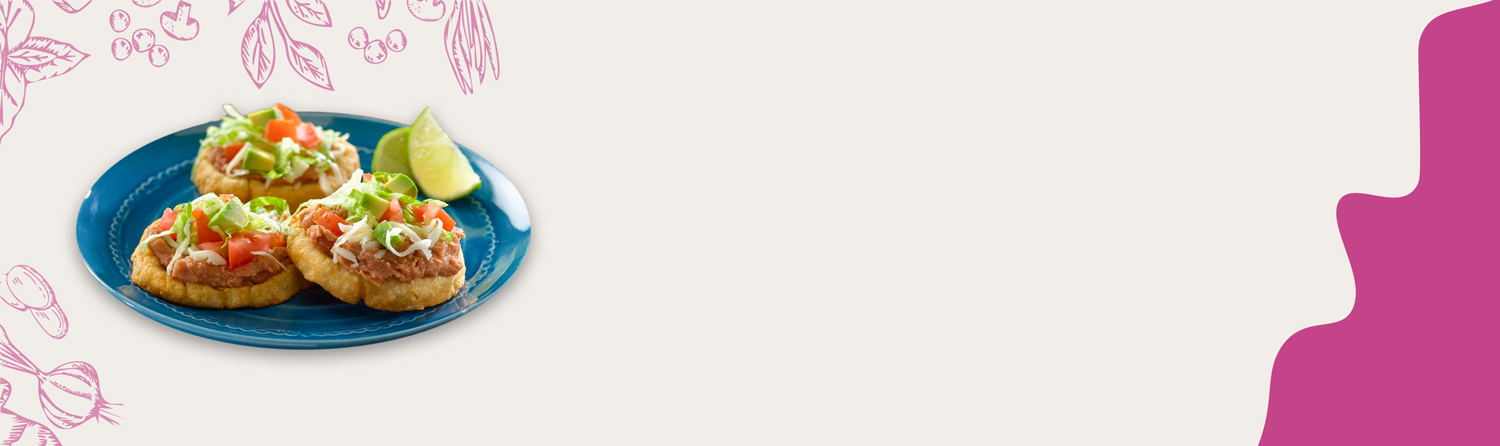
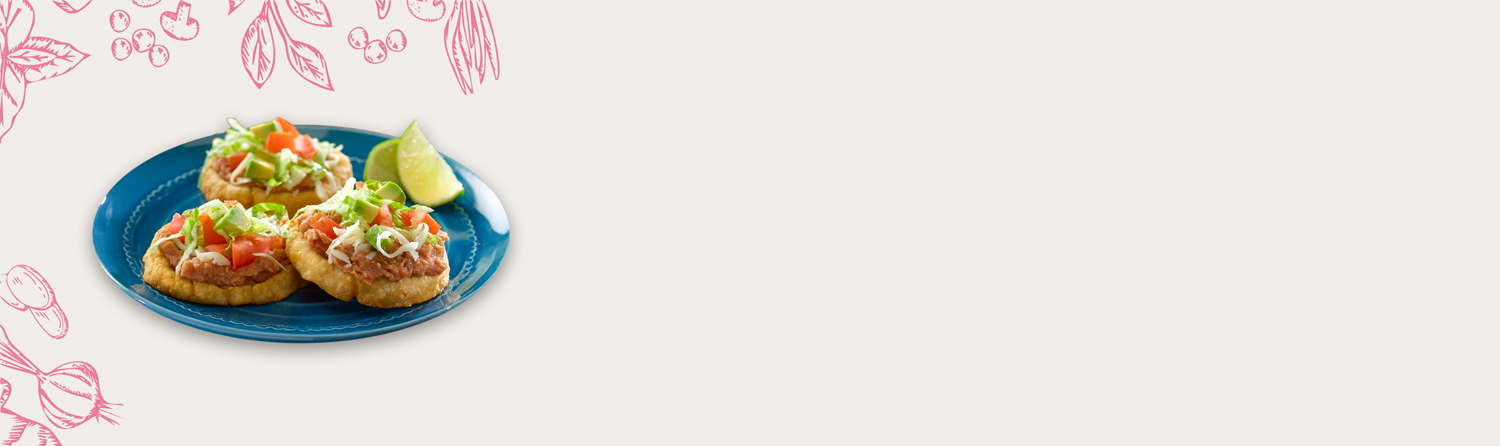
Final fixes in home page

Changed region(s): [[0.0307, 0.2332, 0.368, 0.8161], [0.828, 0.0, 1.0, 1.0]]

diff --git a/client/src/pages/Home/index.js b/client/src/pages/Home/index.js
@@ -18,17 +18,18 @@ function Home(props) {
   <div className="mainHomeContainer">
       <NavBar/>
         <Carousel autoplay>
-            <div>
+            <div className="slideContainer">
             <img src={slide1}/>
+            <h1 className="textCentered" style={{top:'33%',left:'60%',color: 'black', fontSize:'4vw'}}>{"¡Hola!"}</h1>
+            <h3 className="textCentered" style={{top:'60%',left:'70%',color: 'black', fontSize:'3vw'}}>{"Bienvenido a tu fondita"}</h3>
             </div>
-            <div>
+            <div className="slideContainer">
             <img src={slide2}/>
+            <h2 className="textCentered" style={{left:'45%'}}>Recibe tu comida en recipientes biodegradables</h2>
             </div>
-            <div>
-            <img src={slide3}/>
-            </div>
-            <div>
+            <div className="slideContainer">
             <img src={slide4}/>
+            <h1 className="textCentered" style={{left:'60%'}}>Comida que te consiente</h1>
             </div>
         </Carousel>
         <Row style={{marginTop:'20px'}}>
@@ -42,6 +43,8 @@ function Home(props) {
             <a href="/menu/vegetariana"><button className="button"><img src={vegetariano} alt="menuImage" style={{width: '5vw', height: 'auto'}}/><br/><br/>Menú Vegetariano</button></a>
             </Col>
         </Row>
+        <br/>
+        <br/>
   </div>
   );
 }

diff --git a/client/src/pages/Home/style.css b/client/src/pages/Home/style.css
@@ -25,8 +25,8 @@
 
 .ant-carousel .slick-slide {
     text-align: center;
-    height: 0px;
-    line-height:0px;
+    height: 446px;
+    line-height:10px;
     background: grey;
     overflow: hidden;
   }
@@ -34,3 +34,15 @@
   .ant-carousel .slick-slide h3 {
     color: #fff;
   }
+
+.slideContainer{
+    position: relative;
+    text-align: center;
+}
+
+.textCentered{
+    position: absolute;
+    top: 50%;
+    left: 50%;
+    transform: translate(-50%, -50%);
+}
